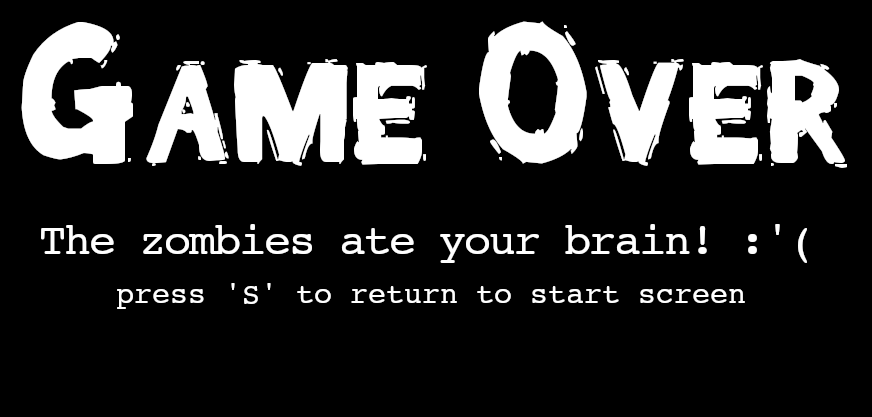
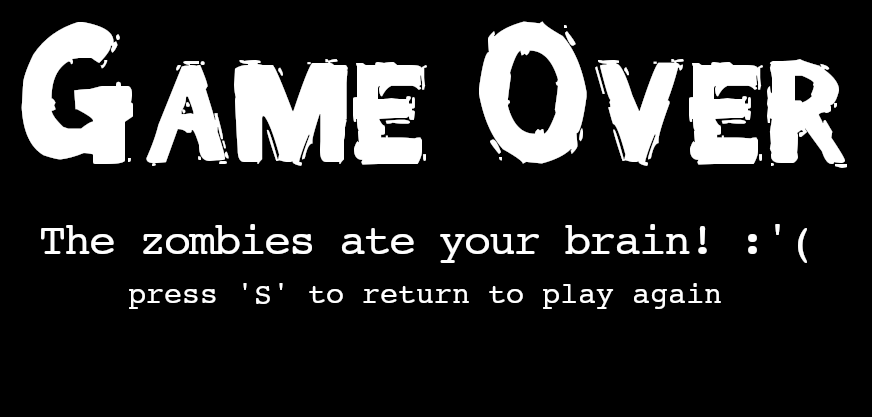
removes unnecessary image files

Changed region(s): [[0.3406, 0.6859, 0.867, 0.7482], [0.1239, 0.6859, 0.2477, 0.7482], [0.2787, 0.6859, 0.3096, 0.7482]]

diff --git a/README.md b/README.md
@@ -1,8 +1,10 @@
 # IronRun-Z
 Endless running side-scroll game in which a zombie horde follows right after you, ready to eat your brain. While you try to escape you will have to avoid the “obstacles” in your way. If you fail to avoid them or stand still for too long, the zombies will catch up to you. Good luck!
 ## Game Controls
+* **Space bar**: jump over obstacles.
 * **Esc**: pause the game.
 * **Enter**: continue playing after a pause.
+* **S**: start the game again after game over.
 ## Game Credits
 * Background images from [MobileGameGraphics](https://mobilegamegraphics.com/)
 * Sprites from [GameArt2D](https://www.gameart2d.com/)
@@ -14,6 +16,5 @@ Endless running side-scroll game in which a zombie horde follows right after you
 In this section, I discuss some aspects about the development process of my first project at Ironhack.
 ## Biggest challenge building the game
 ## Possible improvements for the game
-* Instead of making the player die on collision, everytime the player slips, I would let the zombies attack, then take some of its health points and let it continue running. After several zombie attacks, when the player has health points <= 0 it would die.
 ## Proudest moment building the game
 ## If I started again...
